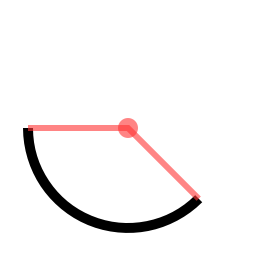
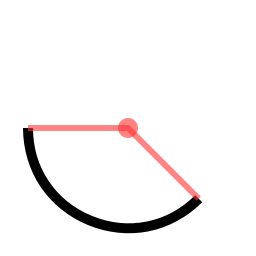
[libcg]fix arc mathematics and update copyright

diff --git a/src/cg.c b/src/cg.c
@@ -1,7 +1,7 @@
 /*
  * cg.c
  *
- * Copyright(c) 2007-2021 Jianjun Jiang <8192542@qq.com>
+ * Copyright(c) 2007-2022 Jianjun Jiang <8192542@qq.com>
  * Mobile phone: +86-18665388956
  * QQ: 8192542
  *
@@ -455,63 +455,38 @@ static void cg_path_add_ellipse(struct cg_path_t * path, double cx, double cy, d
 static void cg_path_add_arc(struct cg_path_t * path, double cx, double cy, double r, double a0, double a1, int ccw)
 {
 	double da = a1 - a0;
-	if(ccw == 0)
+	if(fabs(da) > 6.28318530717958647693)
 	{
-		if(fabs(da) >= M_PI * 2)
-		{
-			da = M_PI * 2;
-		}
-		else
-		{
-			while(da < 0.0)
-				da += M_PI * 2;
-		}
+		da = 6.28318530717958647693;
 	}
+	else if(da != 0.0 && ccw != (da < 0.0))
+	{
+		da += 6.28318530717958647693 * (ccw ? -1 : 1);
+	}
+	int seg_n = (int)(ceil(fabs(da) / 1.57079632679489661923));
+	double seg_a = da / seg_n;
+	double d = (seg_a / 1.57079632679489661923) * 0.55228474983079339840 * r;
+	double a = a0;
+	double ax = cx + cos(a) * r;
+	double ay = cy + sin(a) * r;
+	double dx = -sin(a) * d;
+	double dy = cos(a) * d;
+	if(path->points.size == 0)
+		cg_path_move_to(path, ax, ay);
 	else
+		cg_path_line_to(path, ax, ay);
+	for(int i = 0; i < seg_n; i++)
 	{
-		if(fabs(da) >= M_PI * 2)
-		{
-			da = -M_PI * 2;
-		}
-		else
-		{
-			while(da > 0.0)
-				da -= M_PI * 2;
-		}
-	}
-	int ndivs = CG_MAX(1, CG_MIN((int)(fabs(da) / (M_PI * 0.5) + 0.5), 5));
-	double hda = (da / (double)ndivs) / 2.0;
-	double kappa = fabs(4.0 / 3.0 * (1.0 - cos(hda)) / sin(hda));
-	if(ccw == 1)
-		kappa = -kappa;
-	double px = 0, py = 0;
-	double ptanx = 0, ptany = 0;
-	for(int i = 0; i <= ndivs; i++)
-	{
-		double a = a0 + da * (i / (double)ndivs);
-		double dx = cos(a);
-		double dy = sin(a);
-		double x = cx + dx * r;
-		double y = cy + dy * r;
-		double tanx = -dy * r * kappa;
-		double tany = dx * r * kappa;
-		if(i == 0)
-		{
-			if(path->elements.size == 0)
-				cg_path_move_to(path, x, y);
-			else
-				cg_path_line_to(path, x, y);
-			if(da == 0)
-				break;
-		}
-		else
-		{
-			cg_path_curve_to(path, px + ptanx, py + ptany, x - tanx, y - tany, x, y);
-		}
-		px = x;
-		py = y;
-		ptanx = tanx;
-		ptany = tany;
+		double cp1x = ax + dx;
+		double cp1y = ay + dy;
+		a += seg_a;
+		ax = cx + cos(a) * r;
+		ay = cy + sin(a) * r;
+		dx = -sin(a) * d;
+		dy = cos(a) * d;
+		double cp2x = ax - dx;
+		double cp2y = ay - dy;
+		cg_path_curve_to(path, cp1x, cp1y, cp2x, cp2y, ax, ay);
 	}
 }
 

diff --git a/src/swft.c b/src/swft.c
@@ -1,7 +1,7 @@
 /*
  * swft.c
  *
- * Copyright(c) 2007-2021 Jianjun Jiang <8192542@qq.com>
+ * Copyright(c) 2007-2022 Jianjun Jiang <8192542@qq.com>
  * Mobile phone: +86-18665388956
  * QQ: 8192542
  *
